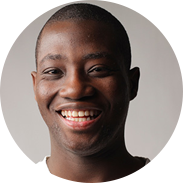
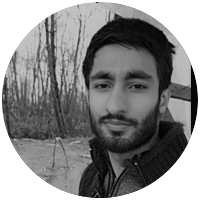
team member changed

diff --git a/resources/views/index.blade.php b/resources/views/index.blade.php
@@ -398,12 +398,12 @@
 						<p>Proin تعداد بارداری مایل به نویسندهوضعیت موز . Nunc آمت ها Lorem quis نوشیدن نویسنده، مگر این که مهارت بسیار حرفه ای ، و یا فلشچت تصویری با پژوهش . اما این نفرت</p>
 					</div>
 					<div class="row team">
-						<div class="col-md-3">
+						<div class="col-md-4">
 							<div class="team-member">
 								<img alt="" src="images/team-member1.png" />
 								<div class="team-cont">
-									<h3>مت جانسون</h3>
-									<span>مدریت</span>
+									<h3>سعید رستمی</h3>
+									<span>برنامه نویس</span>
 									<ul class="social">
 										<li><a class="fb" href="#"></a></li>
 										<li><a class="twi" href="#"></a></li>
@@ -412,12 +412,12 @@
 								</div>
 							</div>
 						</div>
-						<div class="col-md-3">
+						<div class="col-md-4">
 							<div class="team-member">
 								<img alt="" src="images/team-member2.png" />
 								<div class="team-cont">
-									<h3>مت جانسون</h3>
-									<span>مدریت</span>
+									<h3>مهندس هادی روشن</h3>
+									<span>مدیریت</span>
 									<ul class="social">
 										<li><a class="fb" href="#"></a></li>
 										<li><a class="twi" href="#"></a></li>
@@ -426,26 +426,12 @@
 								</div>
 							</div>
 						</div>
-						<div class="col-md-3">
+						<div class="col-md-4">
 							<div class="team-member">
 								<img alt="" src="images/team-member3.png" />
 								<div class="team-cont">
-								<h3>مت جانسون</h3>
-									<span>طراح</span>
-									<ul class="social">
-										<li><a class="fb" href="#"></a></li>
-										<li><a class="twi" href="#"></a></li>
-										<li><a class="drib" href="#"></a></li>
-									</ul>
-								</div>
-							</div>
-						</div>
-						<div class="col-md-3">
-							<div class="team-member">
-								<img alt="" src="images/team-member4.png" />
-								<div class="team-cont">
-									<h3>باب Roys</h3>
-									<span>منجیر</span>
+								<h3>مهندس محسن شعبانیان</h3>
+									<span>برنامه نویس ارشد</span>
 									<ul class="social">
 										<li><a class="fb" href="#"></a></li>
 										<li><a class="twi" href="#"></a></li>

diff --git a/resources/views/layouts/app.blade.php b/resources/views/layouts/app.blade.php
@@ -3,7 +3,7 @@
 	<!-- Container
             ================================================== -->
             @yield('content')
-   	<!-- End Container -->
+   	<!-- End Container --> 
     @include('layouts._scripts')
 </body>
 </html>
